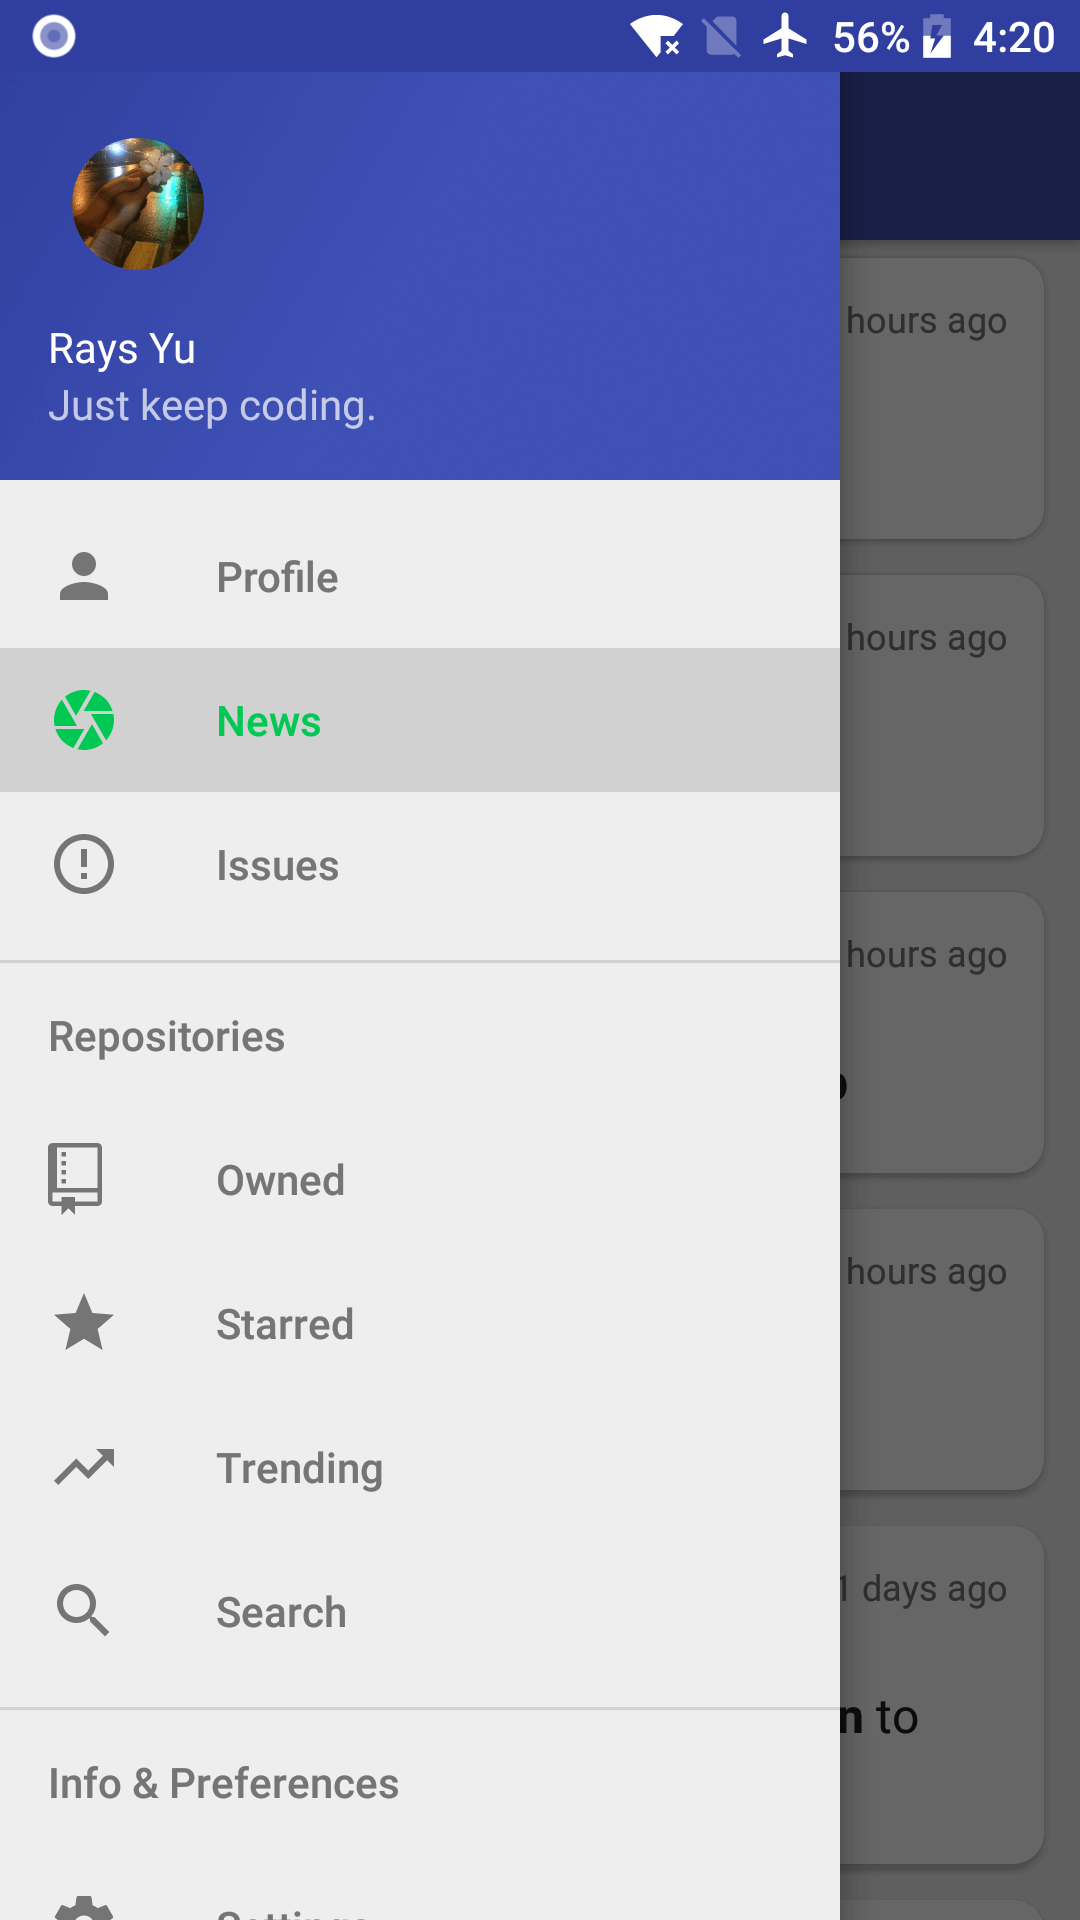
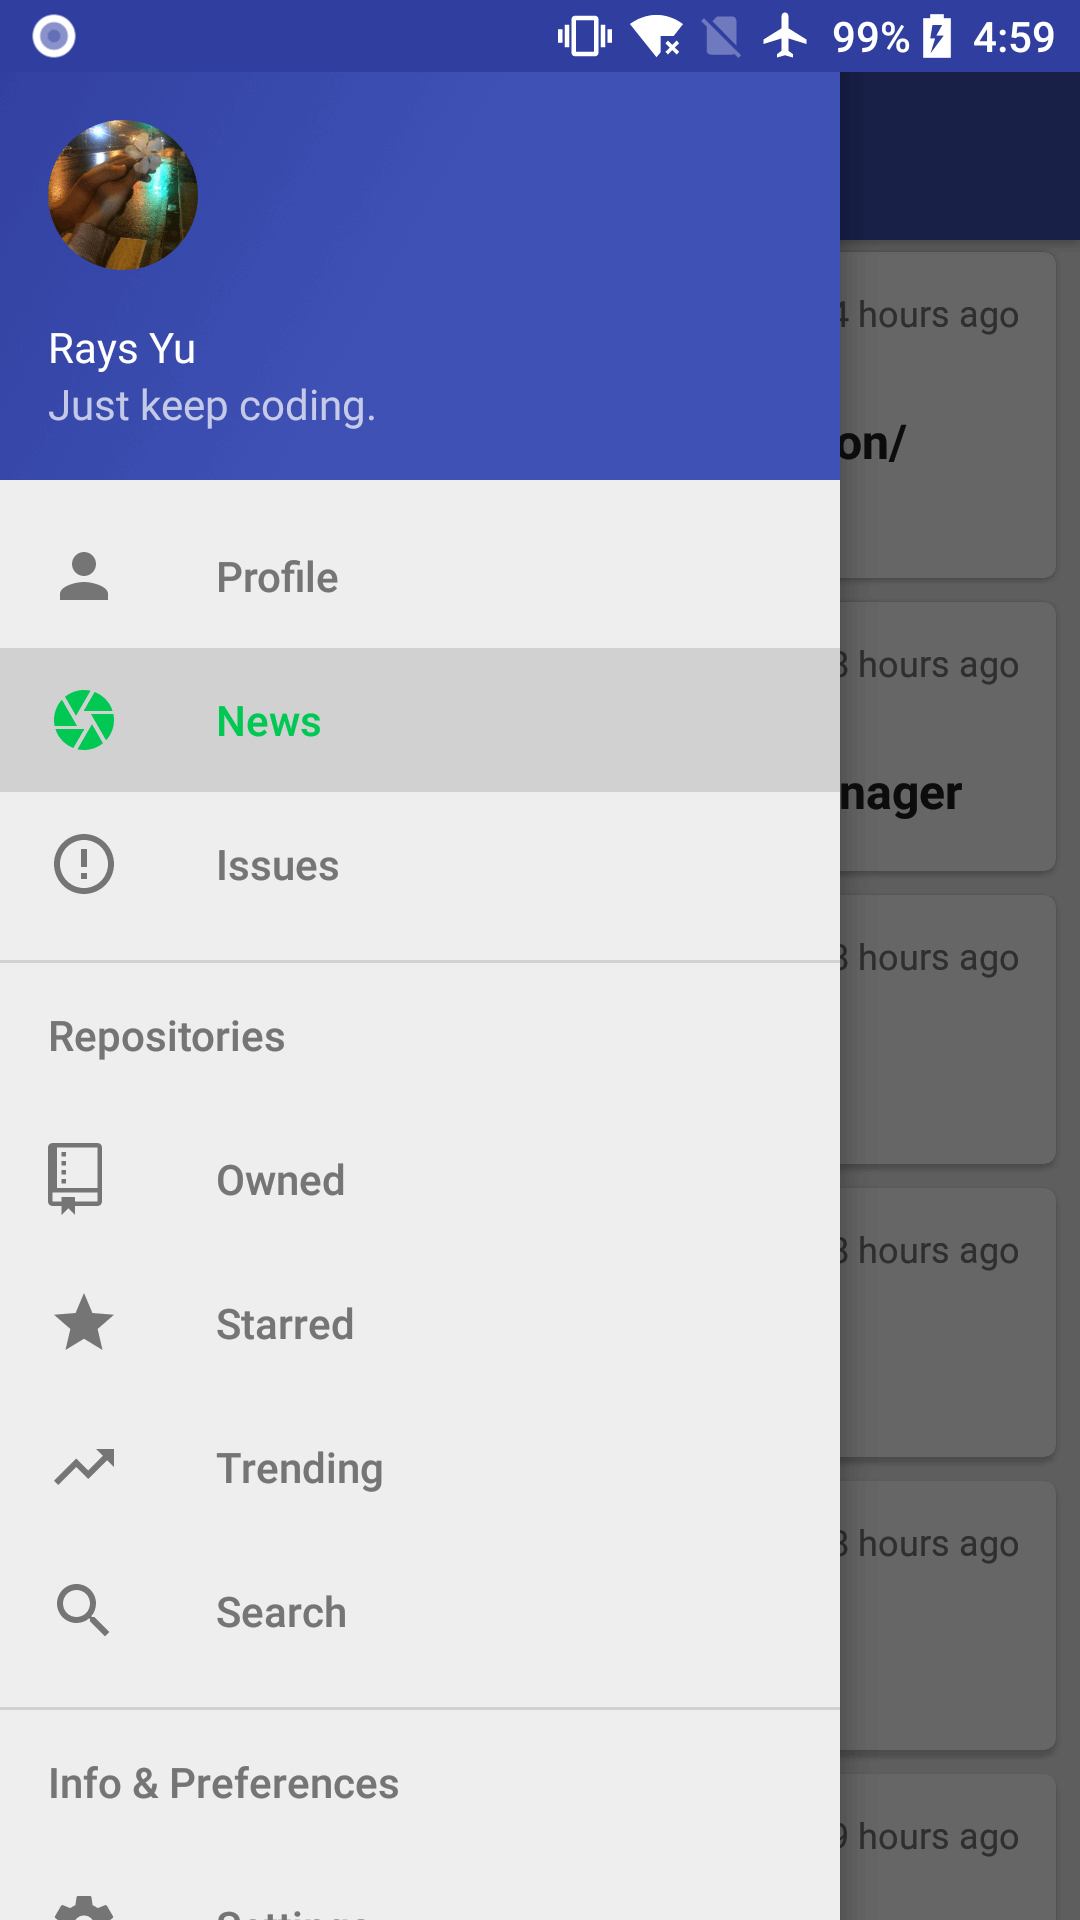
add art image

diff --git a/README.md b/README.md
@@ -26,9 +26,9 @@ An **open source** GitHub Android client app, faster and concise.
 |:-:|:-:|:-:|
 | ![news](/art/news.png?raw=true) | ![drawer](/art/drawer.png?raw=true) | ![profile](/art/profile.png?raw=true) |
 
-| Repository | Trending | Code |
+| Repository | Commit | Code |
 |:-:|:-:|:-:|
-| ![repo](/art/repo.png?raw=true) | ![trending](/art/trending.png?raw=true) | ![code](/art/code.png?raw=true) |
+| ![repo](/art/repo.png?raw=true) | ![commit](/art/commit.png?raw=true) | ![code](/art/code.png?raw=true) |
 
 ## Open source library
 

diff --git a/README-cn.md b/README-cn.md
@@ -25,9 +25,9 @@
 |:-:|:-:|:-:|
 | ![news](/art/news.png?raw=true) | ![drawer](/art/drawer.png?raw=true) | ![profile](/art/profile.png?raw=true) |
 
-| 版本库主页 | 趋势 | 代码 |
+| 版本库主页 | 提交 | 代码 |
 |:-:|:-:|:-:|
-| ![repo](/art/repo.png?raw=true) | ![trending](/art/trending.png?raw=true) | ![code](/art/code.png?raw=true) |
+| ![repo](/art/repo.png?raw=true) | ![commit](/art/commit.png?raw=true) | ![code](/art/code.png?raw=true) |
 
 ## 开源库
 
